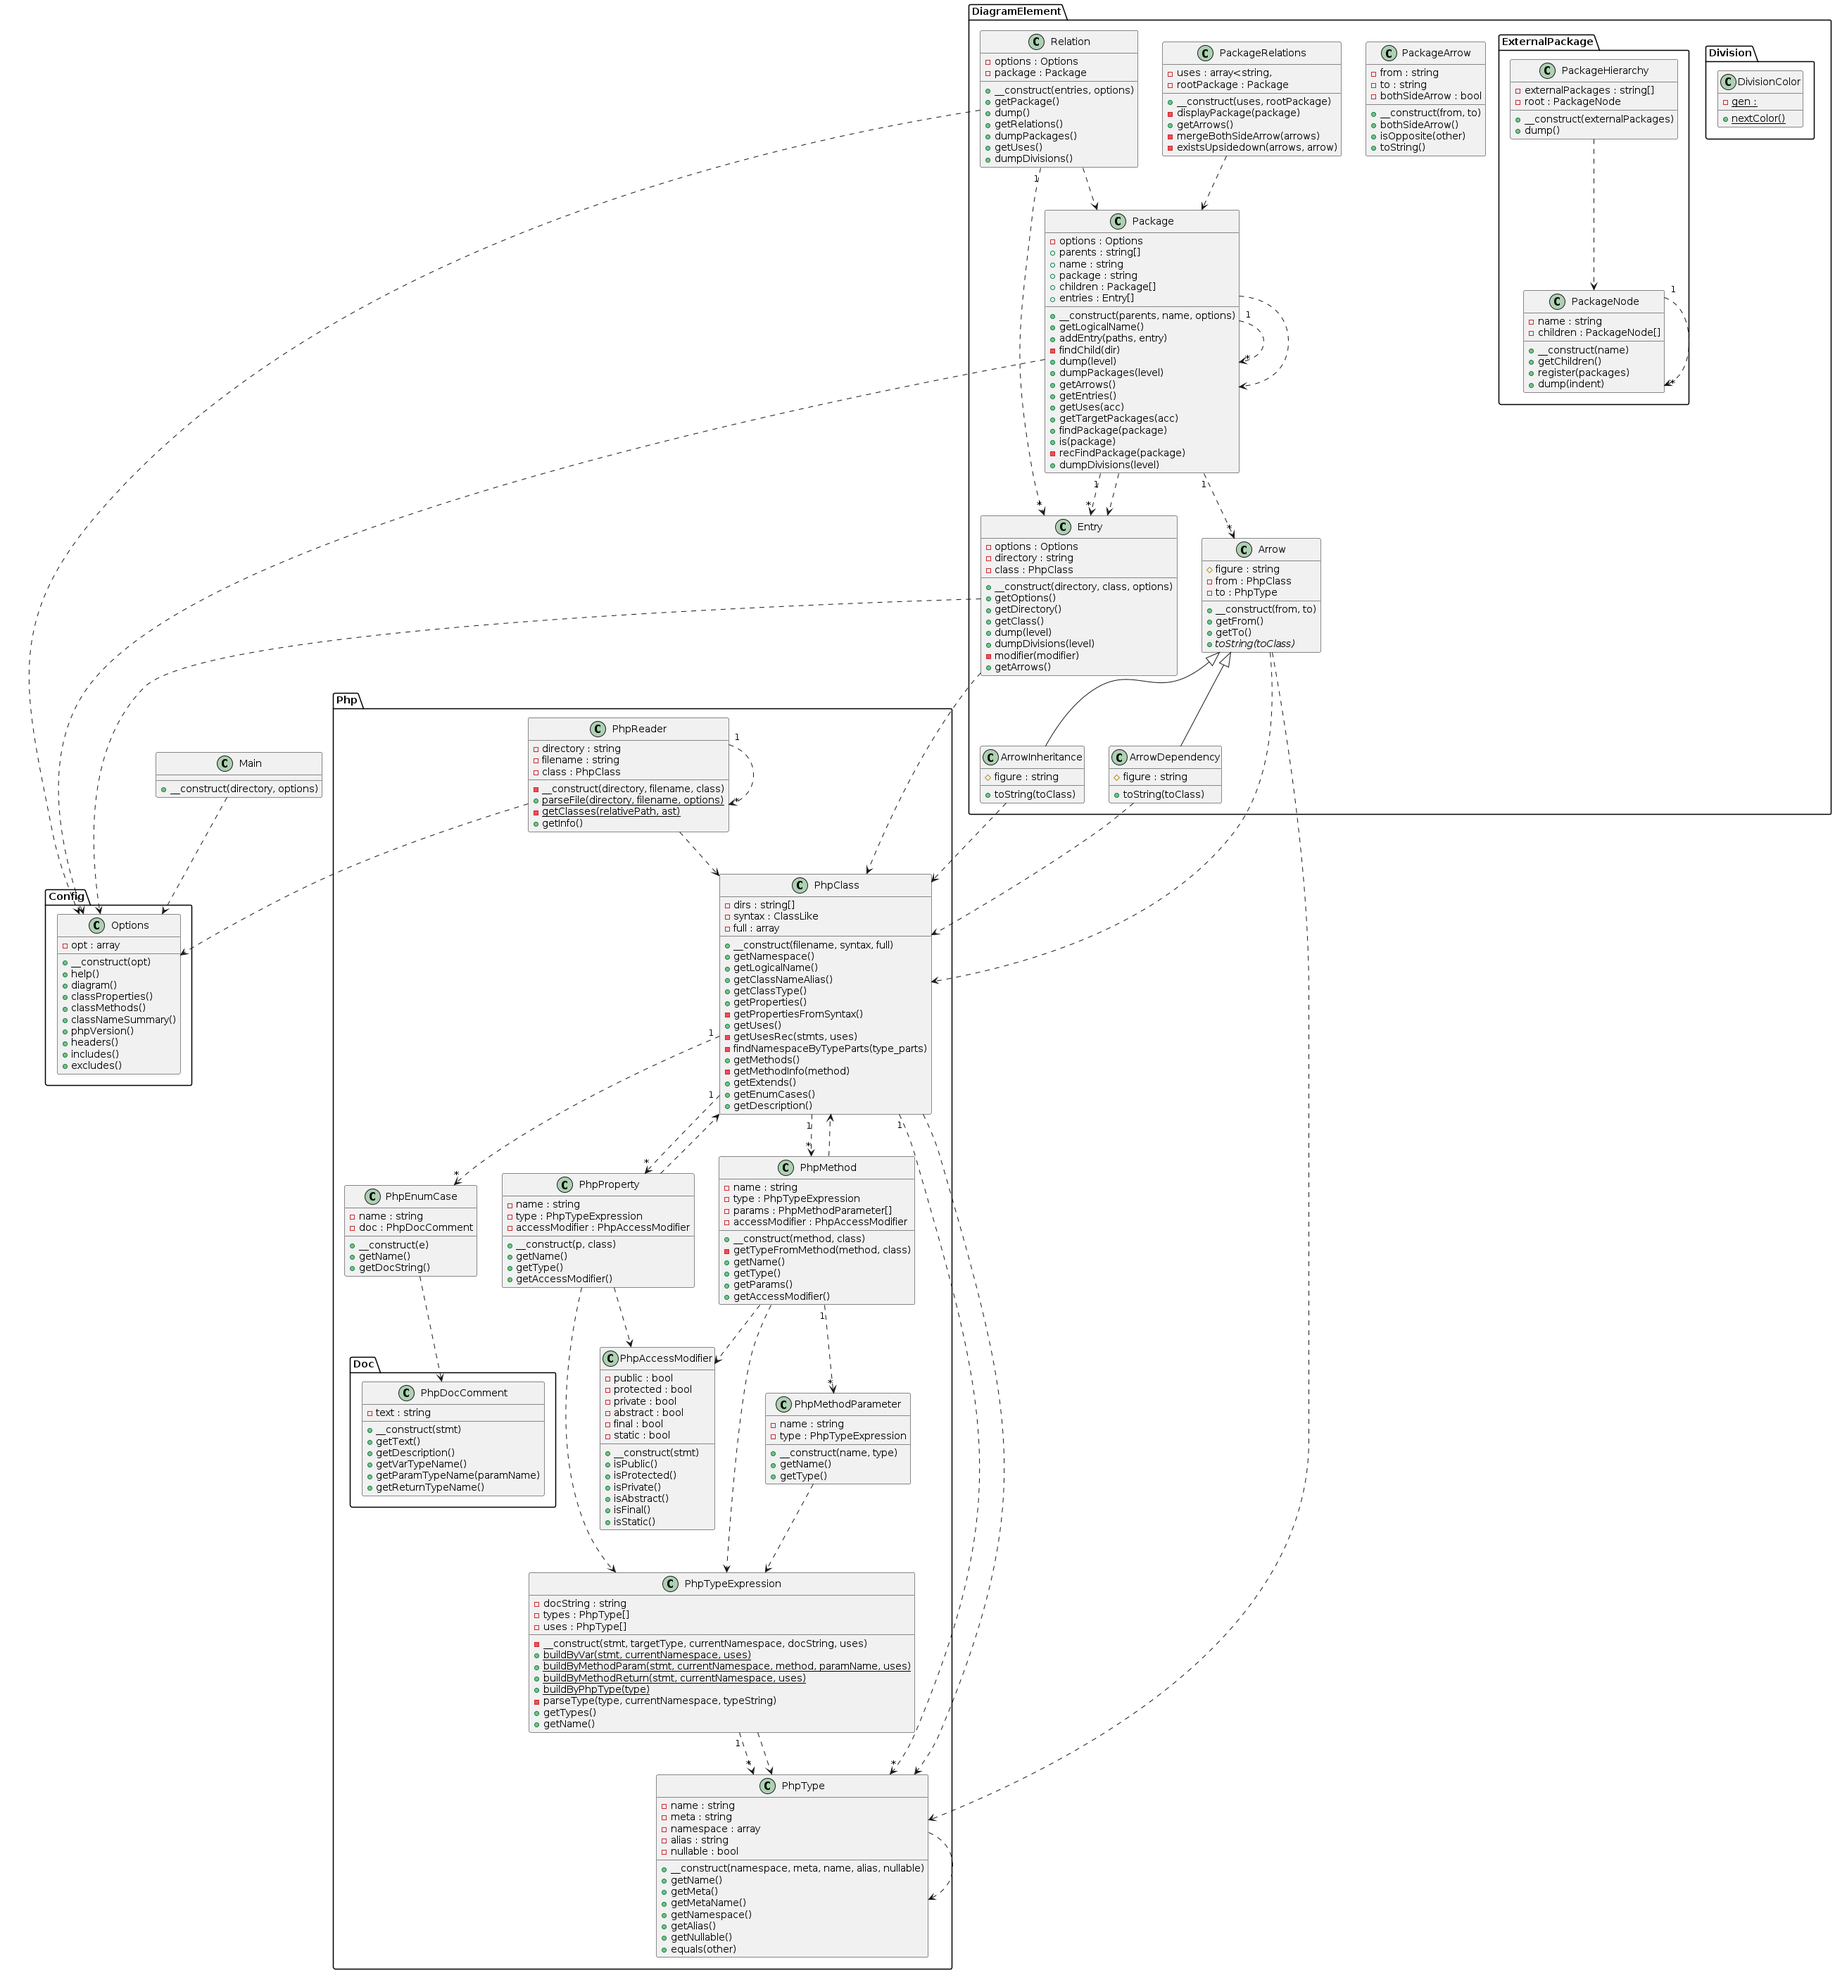
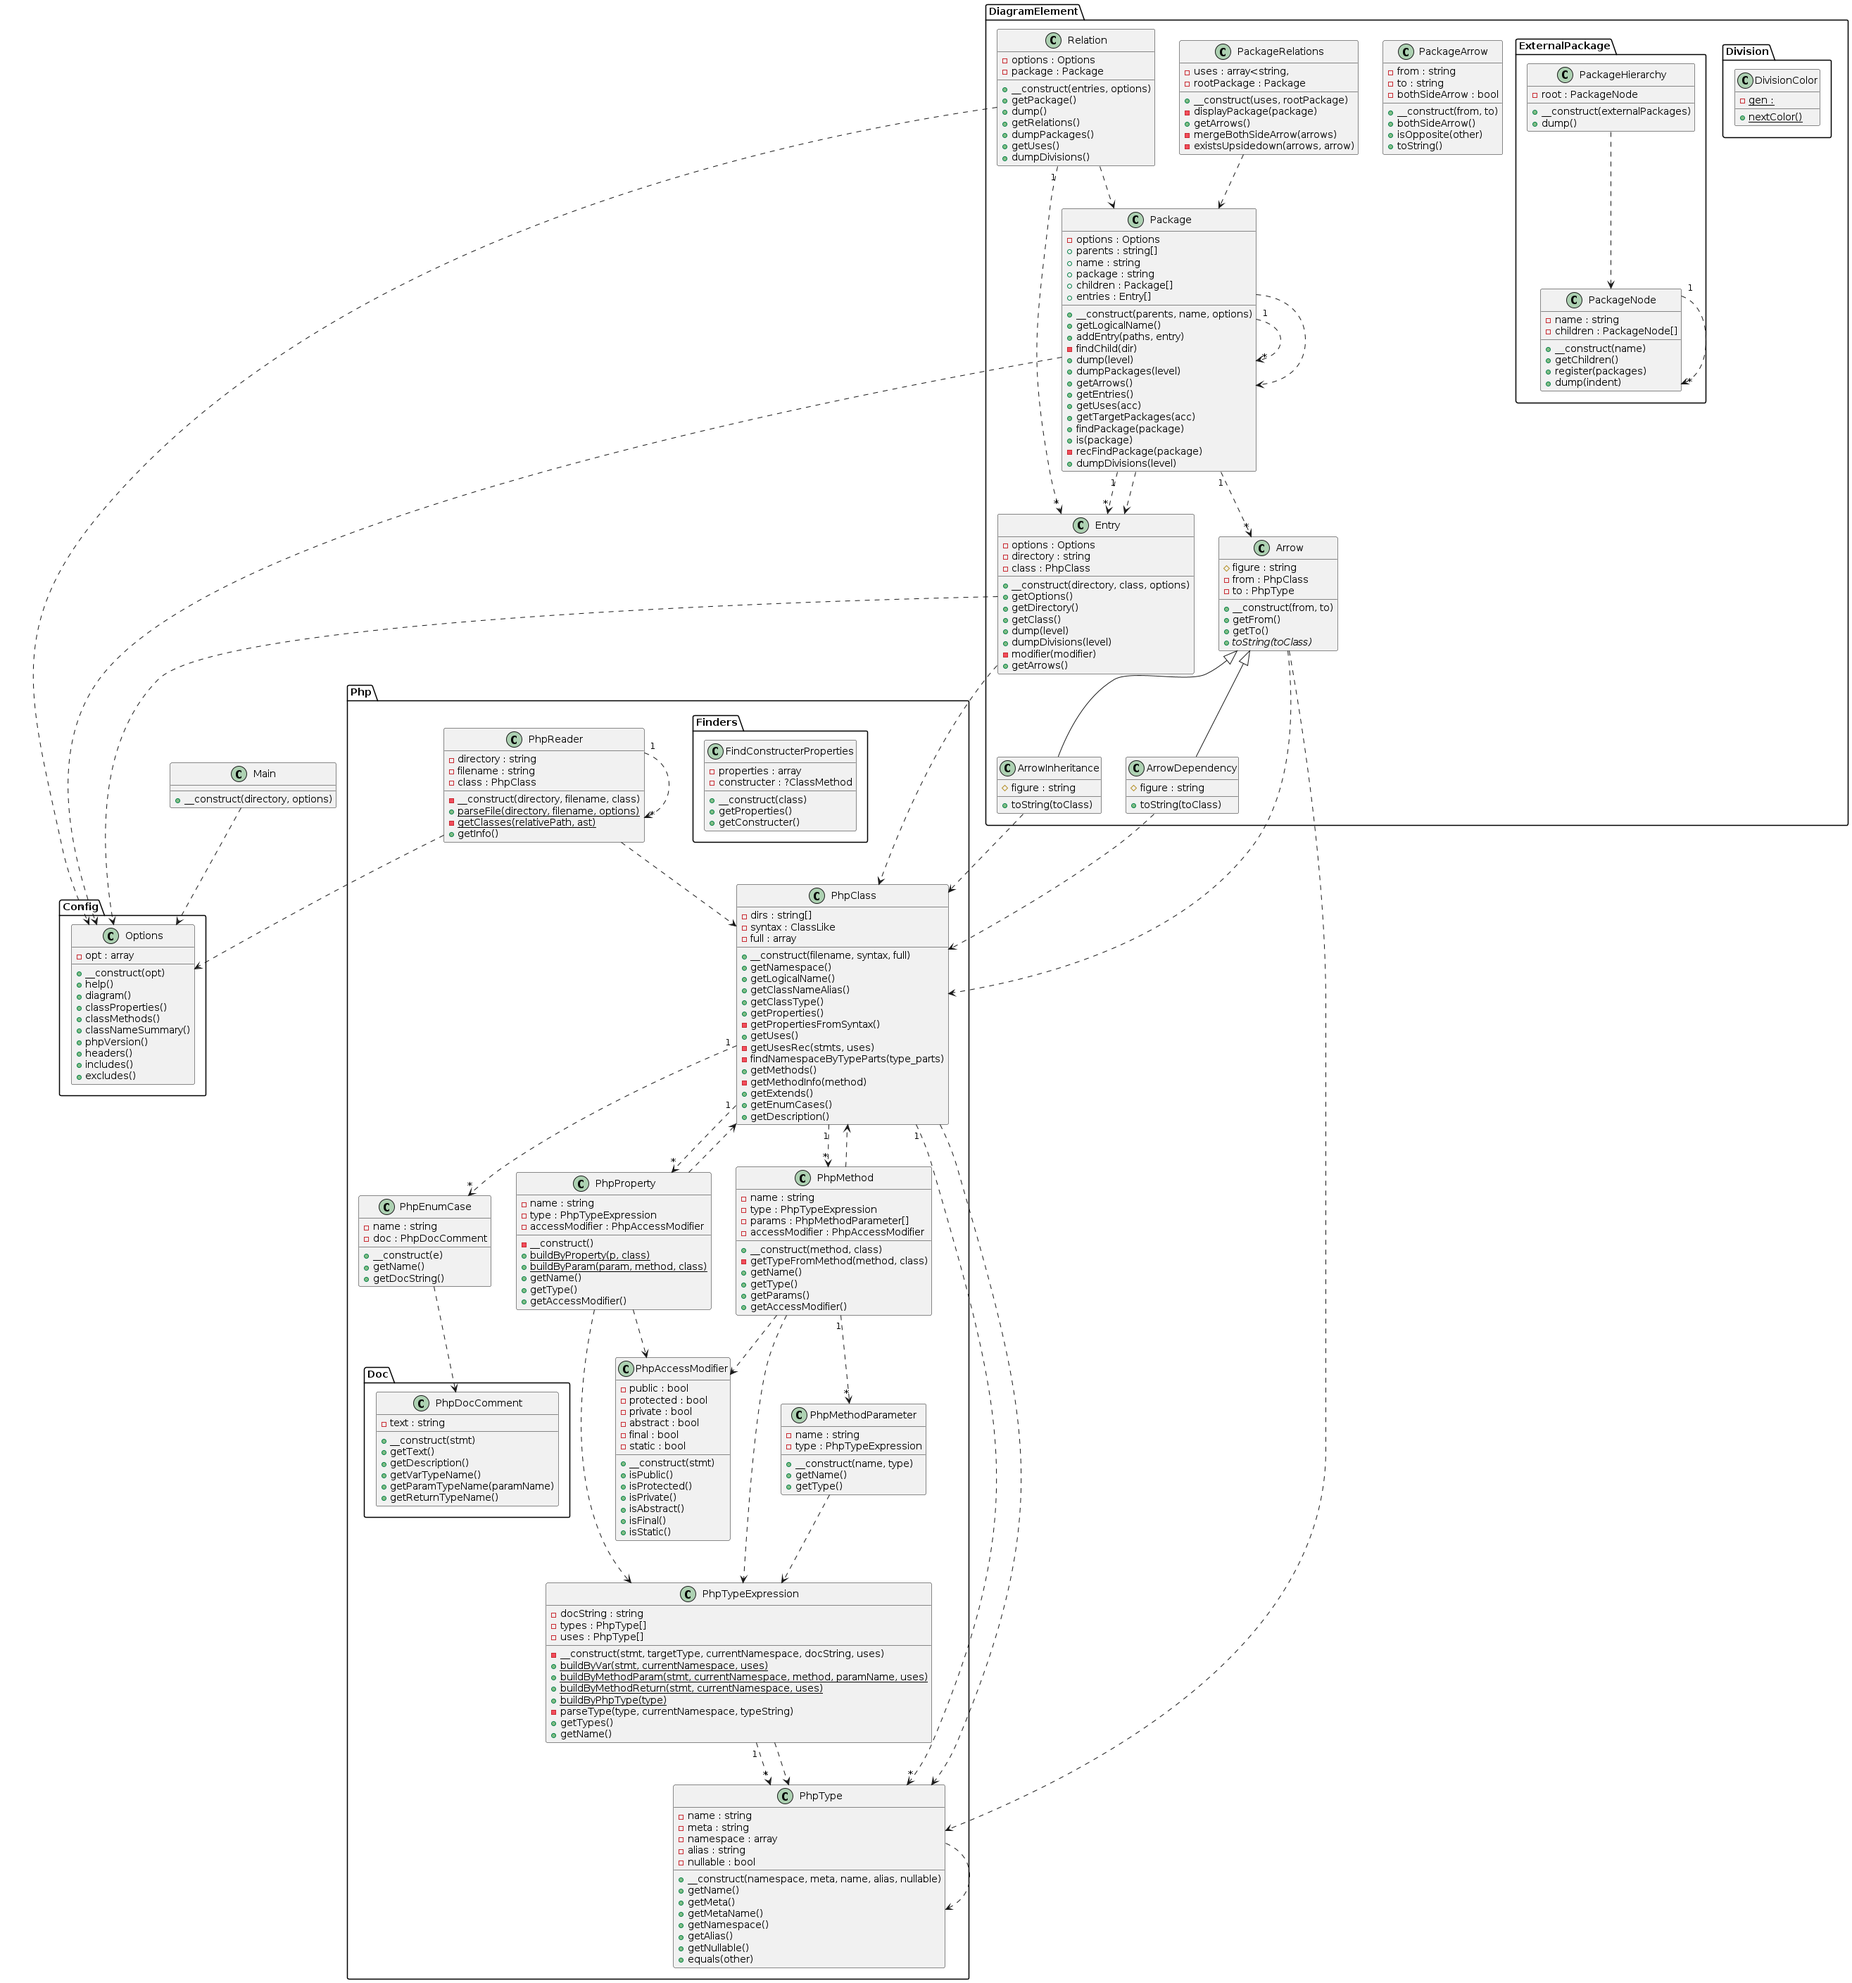
Since name resolution is done with NameResolver, unnecessary processing has been deleted.

diff --git a/src/Php/PhpClass.php b/src/Php/PhpClass.php
@@ -4,14 +4,6 @@ declare(strict_types=1);
 
 namespace Smeghead\PhpClassDiagram\Php;
 
-use PhpParser\NodeFinder;
-use PhpParser\Node;
-use PhpParser\Node\{
-    NullableType,
-    Identifier,
-    Name,
-    UnionType,
-};
 use PhpParser\Node\Name\FullyQualified;
 use PhpParser\Node\Stmt;
 use PhpParser\Node\Stmt\{
@@ -25,7 +17,7 @@ use PhpParser\Node\Stmt\{
     Use_,
 };
 use Smeghead\PhpClassDiagram\Php\Doc\PhpDocComment;
-use Smeghead\PhpClassDiagram\Php\Finder\FindConstructerProperties;
+use Smeghead\PhpClassDiagram\Php\Finders\FindConstructerProperties;
 
 class PhpClass
 {
@@ -156,27 +148,13 @@ class PhpClass
      * * useしているクラスに目的のクラスがあるかを探す
      * * 自身のクラス名が目的のクラスかどうか   ... (不要かもしれない。暗黙の参照と統合可能
      * * 暗黙の参照として、自身のnamespaceを返却する
+     * 
+     * Since name resolution is done with NameResolver, unnecessary processing has been deleted.
      */
     private function findNamespaceByTypeParts(array $type_parts): array
     {
-        $type = str_replace('[]', '', array_pop($type_parts));
-        $primitives = ['string', 'bool', 'boolean', 'int', 'integer', 'float', 'double', 'array', 'object', 'resource'];
-        if (in_array($type, $primitives)) {
-            return [];
-        }
-        foreach ($this->getUses() as $u) {
-            if ($u->getName() === $type) {
-                return $u->getNamespace();
-            }
-        }
-        // 探したいクラスが、自身の型だった場合
-        $t = $this->getClassType();
-        if ($t->getName() === $type) {
-            return $t->getNamespace();
-        }
-
-        // 暗黙的な参照と見做す
-        return $this->getNamespace();
+        array_pop($type_parts);
+        return $type_parts;
     }
 
     /** @return PhpMethod[] メソッド一覧 */
@@ -213,25 +191,19 @@ class PhpClass
                     '',
                     end($Name->parts)
                 );
-            } else {
-                $parts = $Name->parts;
-                $namespace = [];
-                if (count($parts) > 0) {
-                    $namespace = $this->findNamespaceByTypeParts($parts);
-                    $typeName = array_pop($parts);
-                }
-                $extends[] = new PhpType(array_merge($namespace, $parts), 'Stmt_Class', $typeName);
             }
         }
+        
         if (!empty($this->syntax->implements)) {
-            foreach ($this->syntax->implements as $i) {
-                $parts = $i->parts;
-                $namespace = [];
-                if (count($parts) > 0) {
-                    $namespace = $this->findNamespaceByTypeParts($parts);
-                    $typeName = array_pop($parts);
+            foreach ($this->syntax->implements as $Name) {
+                // $parts = $i->parts;
+                if ($Name instanceof FullyQualified) {
+                    $extends[] = new PhpType(
+                        array_slice($Name->parts, 0, count($Name->parts) - 1),
+                        '',
+                        end($Name->parts)
+                    );
                 }
-                $extends[] = new PhpType(array_merge($namespace, $parts), 'Stmt_Interface', $typeName);
             }
         }
         return $extends;

diff --git a/src/Php/PhpReader.php b/src/Php/PhpReader.php
@@ -11,6 +11,8 @@ use PhpParser\Node\Stmt\{
     Namespace_,
     ClassLike,
 };
+use PhpParser\NodeTraverser;
+use PhpParser\NodeVisitor\NameResolver;
 use Smeghead\PhpClassDiagram\Config\Options;
 
 class PhpReader
@@ -50,6 +52,11 @@ class PhpReader
         $parser = (new ParserFactory)->create($targetVesion);
         try {
             $ast = $parser->parse($code);
+            $nameResolver = new NameResolver();
+            $nodeTraverser = new NodeTraverser();
+            $nodeTraverser->addVisitor($nameResolver);
+            // Resolve names
+            $ast = $nodeTraverser->traverse($ast);
         } catch (Error $error) {
             throw new \Exception("Parse error: {$error->getMessage()} file: {$filename}\n");
         }

diff --git a/src/Php/PhpTypeExpression.php b/src/Php/PhpTypeExpression.php
@@ -8,7 +8,6 @@ use PhpParser\Node\Identifier;
 use PhpParser\Node\Name;
 use PhpParser\Node\Name\FullyQualified;
 use PhpParser\Node\NullableType;
-use PhpParser\Node\Param;
 use PhpParser\Node\Stmt\ClassMethod;
 use PhpParser\Node\Stmt\Property;
 use PhpParser\Node\UnionType;

diff --git a/src/Php/Finders/FindConstructerProperties.php b/src/Php/Finders/FindConstructerProperties.php
@@ -2,7 +2,7 @@
 
 declare(strict_types=1);
 
-namespace Smeghead\PhpClassDiagram\Php\Finder;
+namespace Smeghead\PhpClassDiagram\Php\Finders;
 
 use PhpParser\Node;
 use PhpParser\Node\Param;
